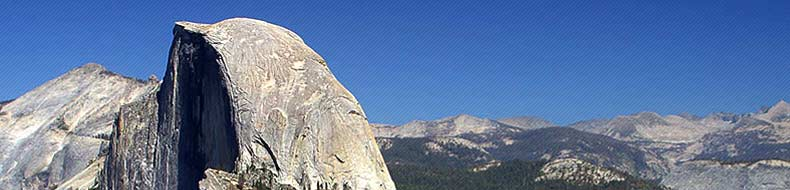
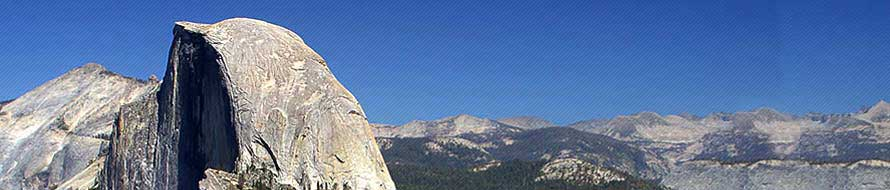
updated theme.
git-svn-id: svn://svn.liferay.com/repos/public/plugins/trunk@10704 05bdf26c-840f-0410-9ced-eb539d925f36

diff --git a/themes/higherground-theme/docroot/_diffs/css/custom.css b/themes/higherground-theme/docroot/_diffs/css/custom.css
@@ -69,7 +69,7 @@ body {
 
 #wrapper {
  position : relative ;
- width : 820px ;
+ width : 920px ;
  background : transparent url('../images/common/wrapper_bg_1.jpg') repeat-y center top ;
  margin : 0 auto ;
  text-align : left ;
@@ -80,13 +80,13 @@ body {
  top : 0 ;
  left : 0 ;
  background : #ccc url('../images/common/wrapper_bg_2.jpg') repeat-y scroll center top ;
- width : 820px ;
+ width : 920px ;
  height : 19px ;
 }
 #theme_header {
  z-index : 1 ;
  position : relative ;
- width : 820px ;
+ width : 920px ;
  height : 100px ;
  background : #ccc url('../images/common/banner_bg_1.jpg') repeat-y scroll center top ;
  color : #fff ;
@@ -104,11 +104,11 @@ body {
  letter-spacing : -1px ;
 }
 #theme_header-photo {
- background : #fff url('../images/common/banner_bg_2.jpg') no-repeat scroll center ;
+ background : #fff url('../images/common/banner_bg_2.png') no-repeat scroll center ;
  clear : both ;
  height : 200px ;
  margin : 0pt auto ;
- width : 790px ;
+ width : 890px ;
 }
 
 
@@ -128,18 +128,16 @@ body {
 
 
 #navigation {
- clear : both ;
+ background : transparent url('../images/navigation/bg.jpg') repeat-x scroll 0 0 ;
+ margin : 0 15px ;
 }
 #navigation ul {
- background : transparent url('../images/navigation/bg.jpg') repeat-x scroll 0 0 ;
- display : inline ;
- float : left ;
- margin : 0 0 0 15px ;
+ display : block ;
+ float: left;
  text-transform : uppercase ;
- width : 790px ;
 }
 #navigation ul li , #navigation ul li.selected , .js #add-page {
- display : inline ;
+ display : block ;
  float : left ;
 }
 #navigation ul li a , #navigation ul li a:hover , #navigation ul li.selected a , #navigation ul li.selected a:hover , .js #add-page a , .js #add-page a:hover {
@@ -182,10 +180,10 @@ body {
  border-bottom : 2px solid #d0d0d0 ;
  margin : 0 0 0 15px ;
  position : relative ;
- width : 790px ;
+ width : 890px ;
 }
 #portlet-wrapper- {
- width : 760px ;
+ width : 860px ;
 }
 #content-wrapper #layout-grid {
 }
@@ -216,7 +214,7 @@ body {
 #footer {
  clear : both ;
  padding : 15px 0 ;
- width : 820px ;
+ width : 920px ;
  background : transparent url('../images/common/footer_bg.jpg') no-repeat scroll center bottom ;
  font-size : 95% ;
  text-align : left ;
@@ -230,6 +228,17 @@ body {
 }
 #footer p a:hover {
  color : #000 ;
+}
+
+.liferay-table {
+	font: 9px/9px Arial;
+}
+
+.tabs li {
+	font: 10px/2.25em Arial;
+}
+.tabs li.current {
+	top: 0;
 }
 
 

diff --git a/themes/higherground-theme/docroot/_diffs/javascript/javascript.js b/themes/higherground-theme/docroot/_diffs/javascript/javascript.js
@@ -1,0 +1,34 @@
+jQuery(document).ready(
+
+	/*
+	This function gets loaded when all the HTML, not including the portlets, is
+	loaded.
+	*/
+
+	function() {
+	}
+);
+
+Liferay.Portlet.ready(
+
+	/*
+	This function gets loaded after each and every portlet on the page.
+
+	portletId: the current portlet's id
+	jQueryObj: the jQuery wrapped object of the current portlet
+	*/
+
+	function(portletId, jQueryObj) {
+	}
+);
+
+jQuery(document).last(
+
+	/*
+	This function gets loaded when everything, including the portlets, is on
+	the page.
+	*/
+
+	function() {
+	}
+);
